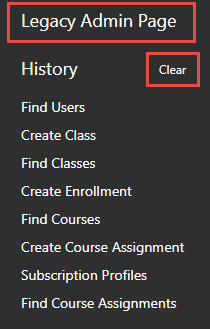
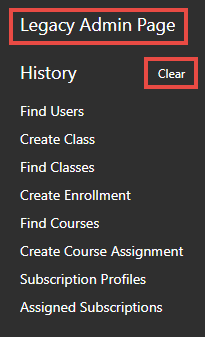
added/corrected image issues
Added all of the images for the analyze-survey-results.md file (3), updated the admin-menu images to be as Ops Mgr instead of Super user (6)

diff --git a/tms/tms-administrators/miscellaneous/analyze-survey-results.md b/tms/tms-administrators/miscellaneous/analyze-survey-results.md
@@ -74,7 +74,7 @@ Click the dropdown on **Count of Responses** and select **Value Field Settings**
 1. In the table, click the filter dropdown next to **Question**, and select the knowledge question and click **OK**.
 >Note: When using the Average summary for the Values, all data must be numerical. When a data point is not numerical, its value is ignored. If all data points are text, you will receive a #DIV/0! Error in that cell as can be seen in the screenshot for Andy Barkl. In this case, the Response scale has numbers except for 1 and 10, which are “1 Not effective” and “10 Effective”. Andy received all “10 Effective” responses to a couple of items and thus you see the error.  
 
-![](/tms/images/survey-results-pivotable-.png)
+![](/tms/images/survey-results-pivottable-.png)
 
 This article is not an indepth explanation of Excel’s filters and PivotTables. It just provides some simple examples of how you might get started in analyzing your survey responses.
 
